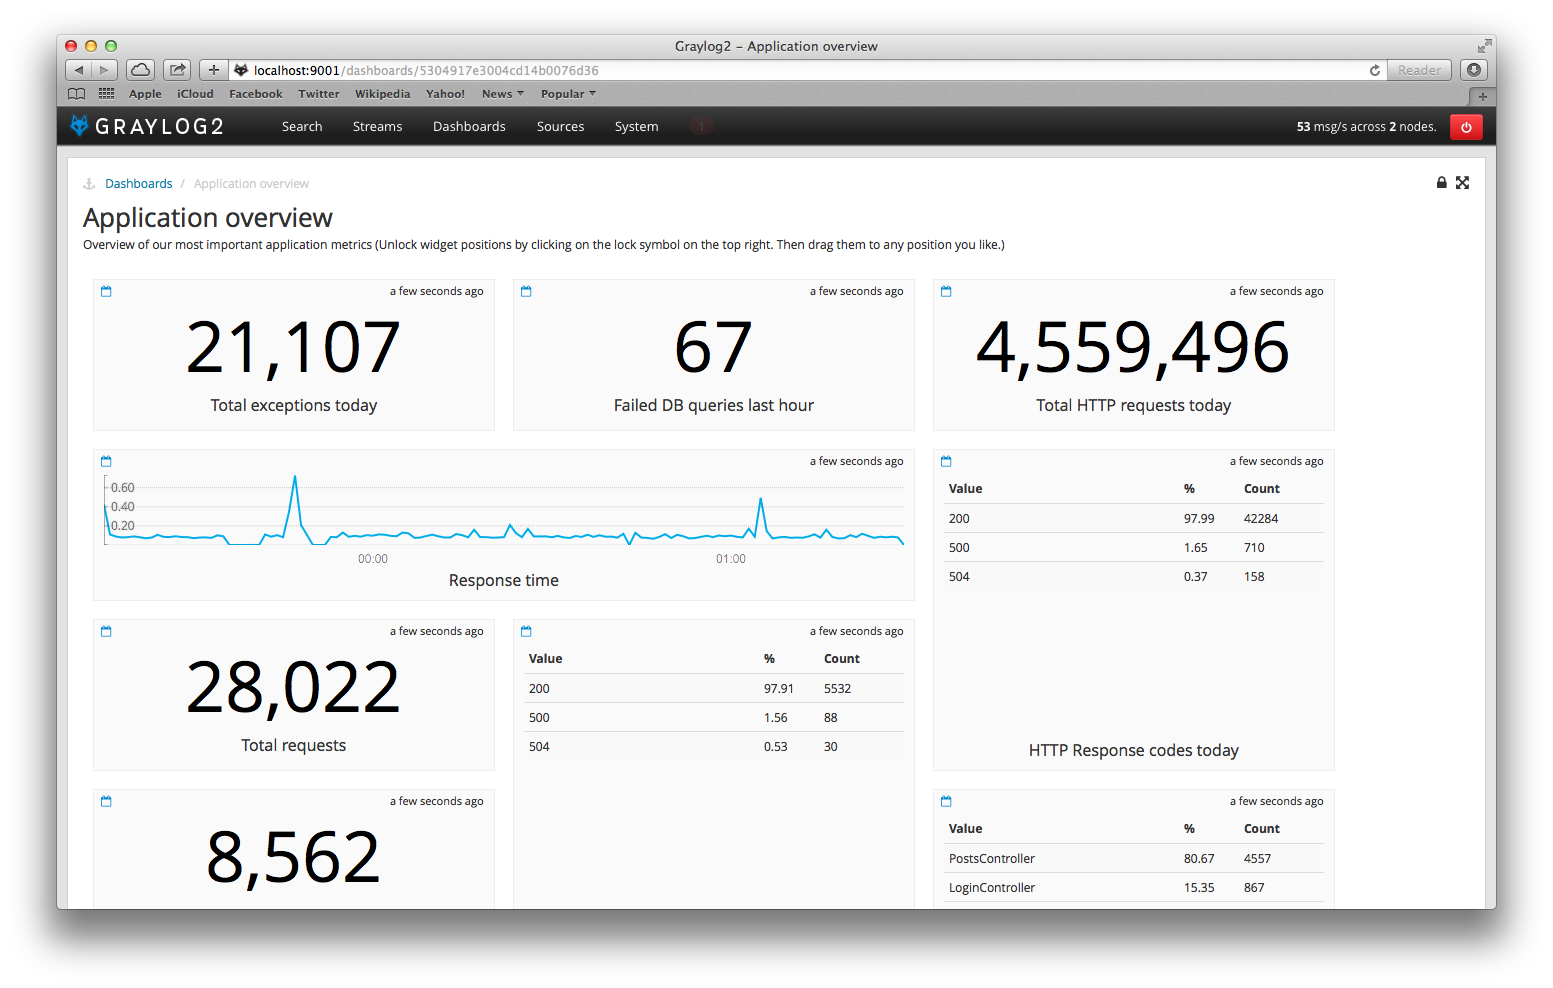
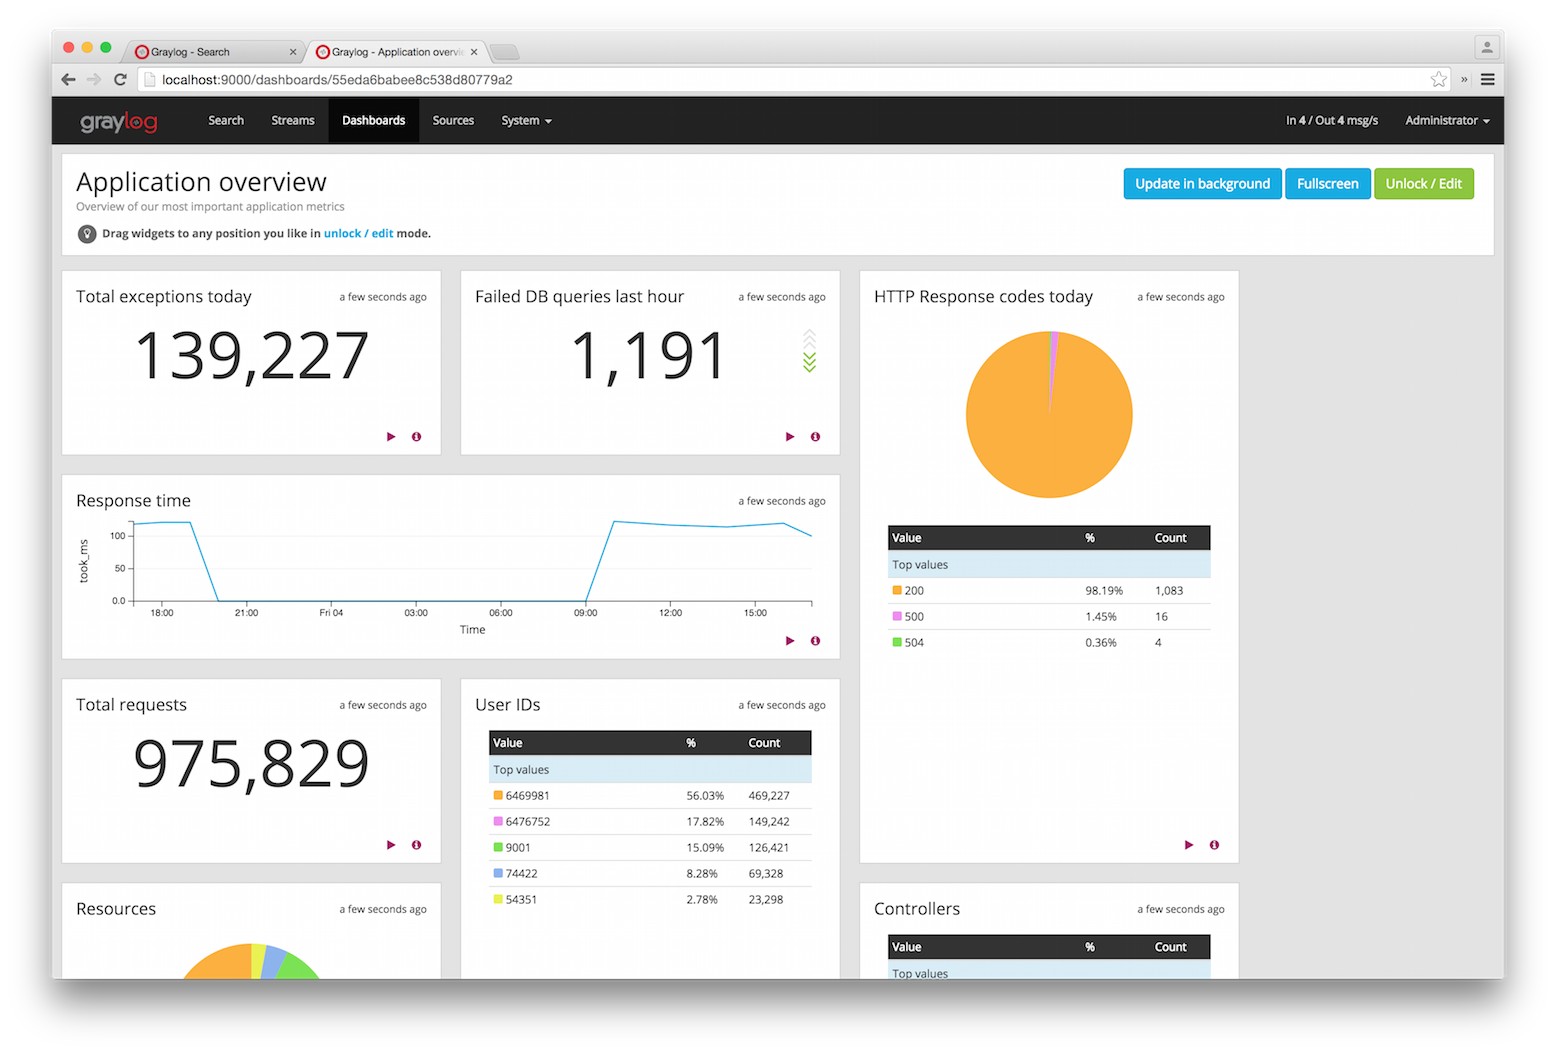
Update documentation on dashboards
Including new screen-shots!

Changed region(s): [[0.0309, 0.0304, 0.9891, 0.9413]]

diff --git a/pages/dashboards.rst b/pages/dashboards.rst
@@ -37,23 +37,30 @@ Hit the *Create* button to create the dashboard. You should now see your new das
 overview page. Click on the title of your new dashboard to see it. Next, we will be adding widgets to the
 dashboard we have just created.
 
-.. image:: /images/dashboards_2.jpg
+.. image:: /images/dashboards_2.png
 
 Adding widgets
 --------------
 
 You should have your empty dashboard in front of you. Let's add some widgets! You can add search result
-information to dashboards with just one click. The following search result types can be added to
+information to dashboards with a couple of clicks. The following search result types can be added to
 dashboards:
 
   * Search result counts
   * Search result histogram charts
+  * Statistical values
   * Field value charts
-  * Quickvalue results
-  
-  Once you can see the results of your search, you will see a small blue icon next to the right of the 
-  result count and histogram title. Hovering over this will show "Add to dashboard" and clicking the icon
-  will prompt you with a list of dashboards you've created. Select a dashboard to add the widget to it.
+  * Stacked charts (by merging several field value charts)
+  * Quick value results
+
+All counts over relative time ranges can display additional trend information, and quick value widgets
+can be represented as a pie chart and/or table.
+
+Once you can see the results of your search, you will see buttons with the "Add to dashboard" text, that
+will allow you to select the dashboard where the widget will be displayed, and configure the widget.
+
+.. image:: /images/dashboards_3.png
+.. image:: /images/dashboards_4.png
 
 Examples
 ========
@@ -86,25 +93,30 @@ be bound to streams. If you have a stream that contains every SSH login you can 
 (``*``) in that stream and store the result count as *SSH logins* on a dashboard.
 
 Result
-------
+======
 
-You should now see widgets on your dashboard. You will learn how to modify the dashboard, change cache
-times and widget positioning in the next chapter.
+You should now see widgets on your dashboard. You will learn how to modify the dashboard, and edit widgets
+in the next chapter.
+
+.. image:: /images/dashboards_1.png
 
 Modifying dashboards
 ====================
 
-You need to *unlock* dashboards to make any changes to them. Hit the lock icon in the top right corner of a
-dashboard to unlock it. You should now see new icons in the widget appearing.
+You need to *unlock* dashboards to make any changes to them. Hit the "Unlock/Edit" button in the top right
+corner of a dashboard to unlock it. You should now see different icons at the bottom of each widget, that
+allow you to perform more actions.
 
 Unlocked dashboard widgets explained
 ------------------------------------
 
-Unlocked dashboard widgets have three buttons that should be pretty self-explanatory.
+Unlocked dashboard widgets have two buttons that should be pretty self-explanatory.
 
   * Delete widget
-  * Change cache time of widget
-  * Change title of widget
+  * Edit widget configuration
+  * Change widget size (when you hover over the widget)
+
+.. image:: /images/dashboards_5.png
 
 Widget cache times
 ------------------
@@ -121,18 +133,24 @@ Just grab a widget with your mouse in unlocked dashboard mode and move it around
 adopt and re-position intelligently to make place for the widget you are moving. The positions are
 automatically saved when dropping a widget.
 
-.. image:: /images/dashboards_6.jpg
+Resizing widgets
+----------------
+
+When hovering over a widget, you will see that a gray arrow appears in its bottom-right corner. You can use that
+icon to resize widgets. Their contents will adapt to the new size automatically!
+
+.. image:: /images/dashboards_7.png
 
 Dashboard permissions
 =====================
 
-Graylog users with administrator permissions are always allowed to view and edit all dashboards. Users with *reader* permissions
+Graylog users in the *Admin* role are always allowed to view and edit all dashboards. Users in the *Reader* role
 are by default not allowed to view or edit **any** dashboard.
 
-.. image:: /images/dashboards_8.png
+.. image:: /images/dashboards_6.png
 
-Navigate to *System* -> *Users* and select a *reader* user you wish to give dashboard permissions. Hit the *edit* button
-and assign dashboard *view* and *edit* permissions in the edit user dialogue. Don't forget to save the user!
+Navigate to *System* -> *Roles* and create a new role that grant the permissions you wish. You can then assign
+that new role to any users you wish to give dashboard permissions in the *System* -> *Users* page.
 
 That's it!
 ----------
